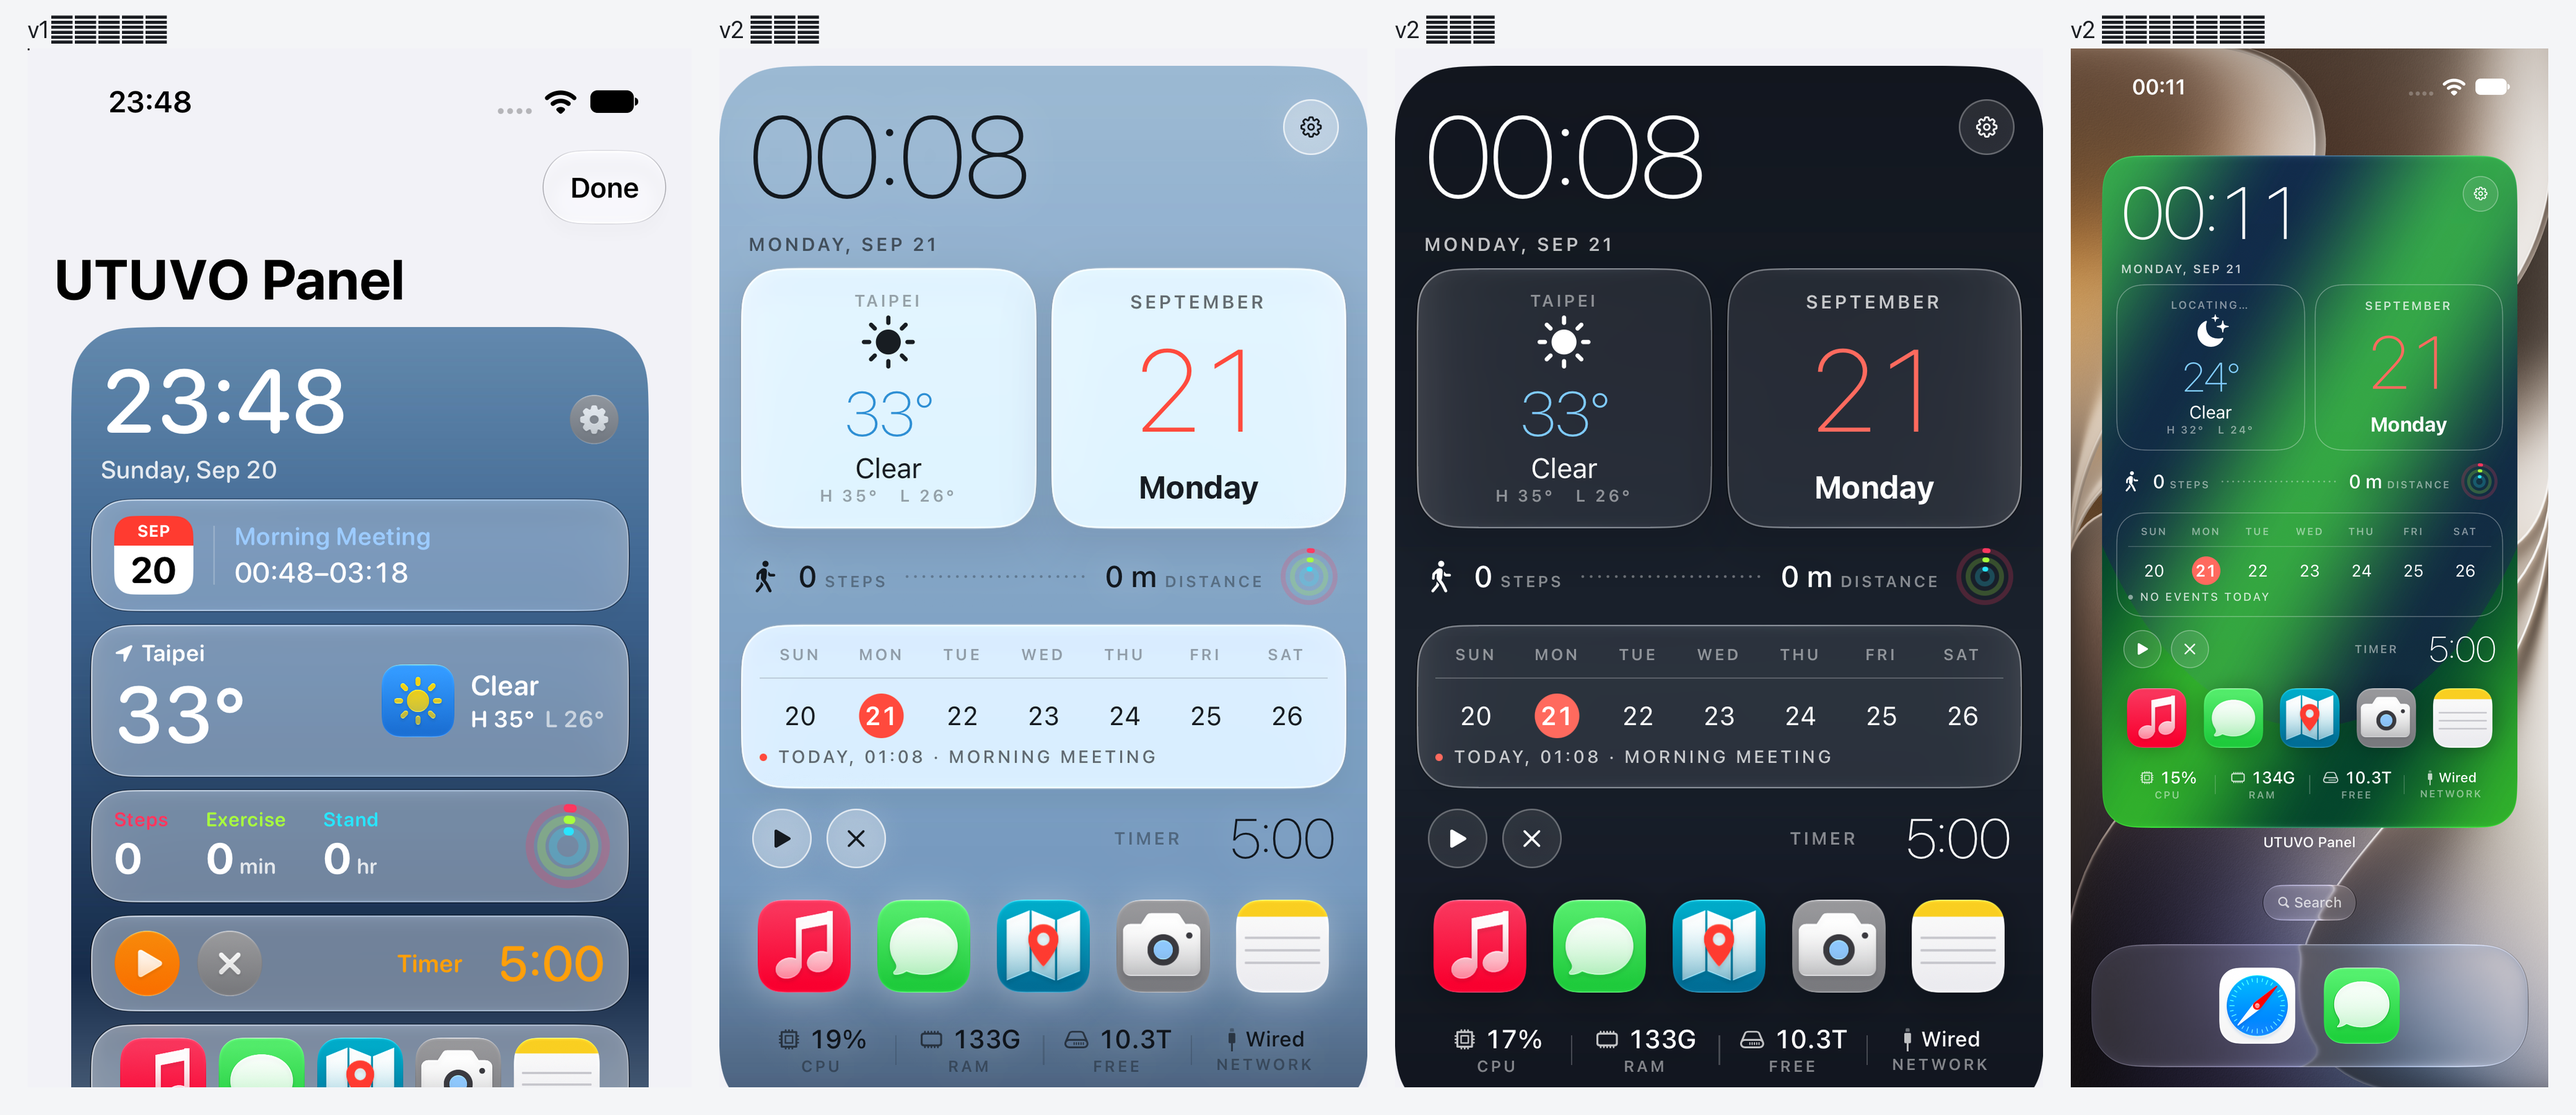
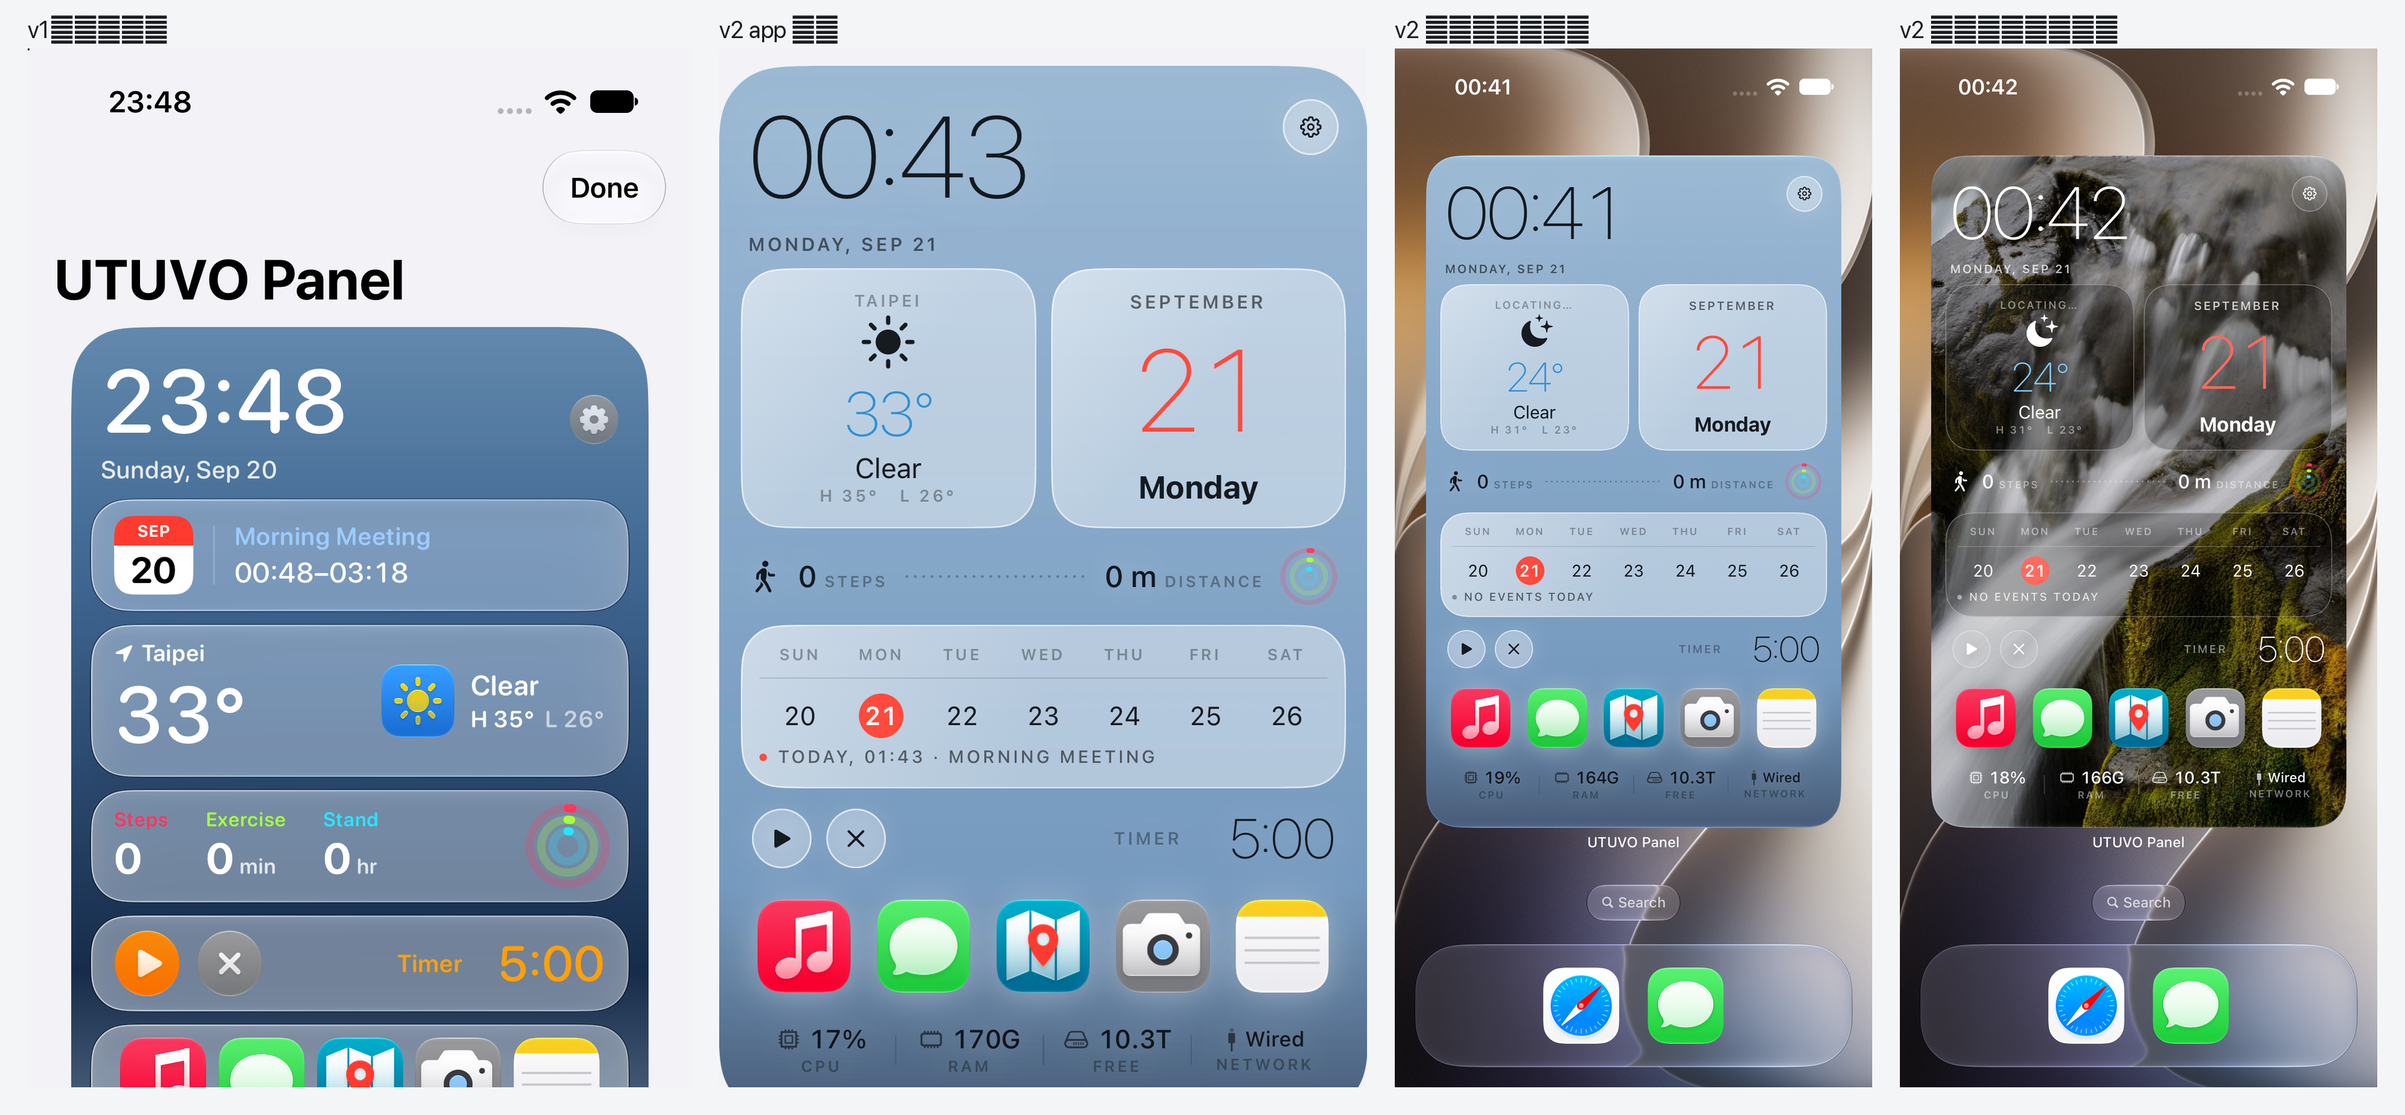
卡片自己畫玻璃：真小工具裡 glassEffect 會蓋掉填色，卡片等於不存在
量測（同一張淺桌布、同一取樣點，卡片內 vs 面板底的亮度差）：
  只有 glassEffect(.regular.tint(...))  → 2.6   ＝ 看不出有卡片
  自己畫 fill ＋ 左上高光 ＋ 髮絲邊      → 37.9  ＝ 參考圖的卡中卡層級

app 預覽一直是對的（那邊 glassEffect 有作用），只有真小工具是錯的。
抓到這件事的過程本身也有坑：桌面上已放好的小工具不會載入新的 extension
binary，只跑 -only-testing test4 拍到的是舊 binary 畫的畫面——用紅色
cardFill 當 mutation probe 才看出來（證據 15）。要驗新程式碼必須
simctl uninstall → 重跑 test2_addWidget 重新放一次。

證據 12（上下對照）、13（真小工具・淺桌布）、14（真小工具・照片桌布）

diff --git a/ios/Shared/PanelView.swift b/ios/Shared/PanelView.swift
@@ -100,6 +100,7 @@ struct PanelInk {
     var coral: Color { accented ? .white : (light ? Color(hex: 0xFF4A3D) : Color(hex: 0xFF6A5E)) }
 
     var sheetFill: Color { light ? Color.white.opacity(0.14) : Color.black.opacity(0.12) }
+    var cardFill: Color { light ? Color.white.opacity(0.42) : Color.black.opacity(0.26) }
     var cardTint: Color { light ? Color.white.opacity(0.38) : Color.black.opacity(0.18) }
     var cardStroke: Color { light ? Color.white.opacity(0.62) : Color.white.opacity(0.30) }
     /// Soft halo so bare rows (header, launcher, system) stay legible straight on the wallpaper.
@@ -315,8 +316,15 @@ private struct GlassCard<Content: View>: View {
                     // System glass already behind us; just a faint rim so blocks read as blocks.
                     shape.strokeBorder(Color.white.opacity(0.25), lineWidth: 0.5)
                 } else {
-                    shape.fill(Color.clear)
-                        .glassEffect(.regular.tint(ink.cardTint), in: shape)
+                    // 🔴 Inside WidgetKit `glassEffect` renders its own near-transparent material over
+                    // whatever is behind it, so neither its tint nor a fill under it survives (measured
+                    // 2026-09-21: white 0.34 vs 0.52 under the glass came out identical on the real widget).
+                    // The card therefore paints its own glass: fill + top-left specular + hairline rim.
+                    shape.fill(ink.cardFill)
+                        .overlay {
+                            shape.fill(LinearGradient(colors: [Color.white.opacity(ink.light ? 0.30 : 0.12), .clear],
+                                                      startPoint: .topLeading, endPoint: .center))
+                        }
                         .overlay { shape.strokeBorder(ink.cardStroke, lineWidth: 0.8) }
                 }
             }

diff --git a/docs/HANDOFF-2026-09-21-panel-v2-visual.md b/docs/HANDOFF-2026-09-21-panel-v2-visual.md
@@ -87,6 +87,20 @@ CPU 16% │ RAM 128G │ 10.3T 可用 │ 有線     system 36
 ②`test7b` 把 `移除背景` 寫死成中文，英文 sim 必紅 → 改成跟 `test1` 一樣吃兩種語言。
 修之前那一輪的 attachment 證明產品本身沒壞（背景有存進去、按鈕已變「Change wallpaper」）。
 
+**🔴🔴 卡片不能靠 `glassEffect` 上色**（量出來的）：在**真小工具**裡 `glassEffect` 會用它自己那層近乎全透明的材質蓋過底下的填色，
+所以 tint 跟 fill 都不見。量測（同一張淺桌布、同一個位置取樣）：
+| 畫法 | 卡片內 vs 面板底 的亮度差 |
+|---|---|
+| 只有 `glassEffect(.regular.tint(...))`（原本） | **2.6** ← 等於沒有卡片 |
+| 自己畫（fill ＋ 左上高光 ＋ 髮絲邊） | **37.9** ← 參考圖的卡中卡層級 |
+app 預覽看起來一直是對的（那邊 glassEffect 有作用），**只有真小工具是錯的**——這就是「驗的是自己布置好的世界」。
+證據 12（上下對照）、13（現行真小工具）。這條跟家族 icon 那條「`glassEffect(.tint)` 在 WidgetKit 內被洗白」是同一個底。
+
+**🔴🔴 驗證陷阱（這一輪踩到）**：桌面上**已放好的小工具不會載入新的 extension binary**。改完 `PanelView` 只跑
+`-only-testing:…test4_showWidget`（會重裝 app）拍到的還是舊 binary 畫的畫面——時鐘與桌布裁切會更新，所以很像「有在換」。
+抓法：把 `cardFill` 改成紅色 0.85 當 mutation probe，卡片沒變紅就是沒換。正解：`simctl uninstall` → 重跑
+`test2_addWidget` 重新放一次小工具，才算驗到新程式碼。
+
 **繁中抓到的真 bug（已修）**：`Text(date, format: .dateTime.day())` 在 zh_TW 會輸出「20日」——日期卡的「日」變得跟數字一樣大，
 週曆七格全被擠成 `2…`。改成 `String(Calendar.current.component(.day, from:))`。
 
